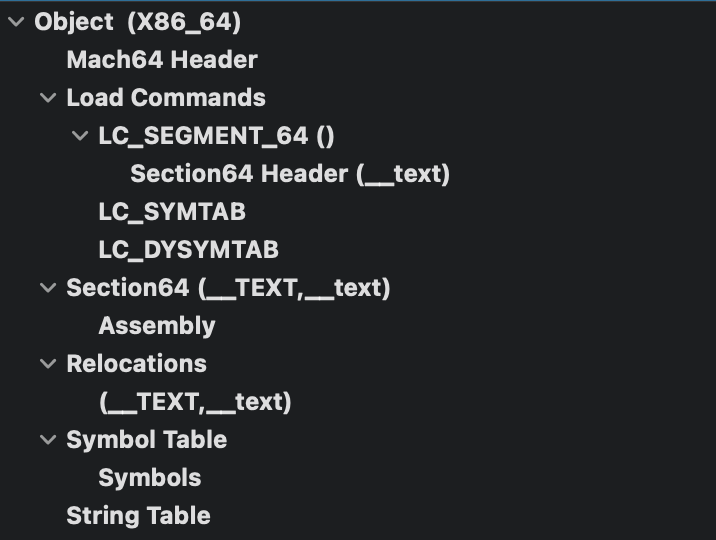
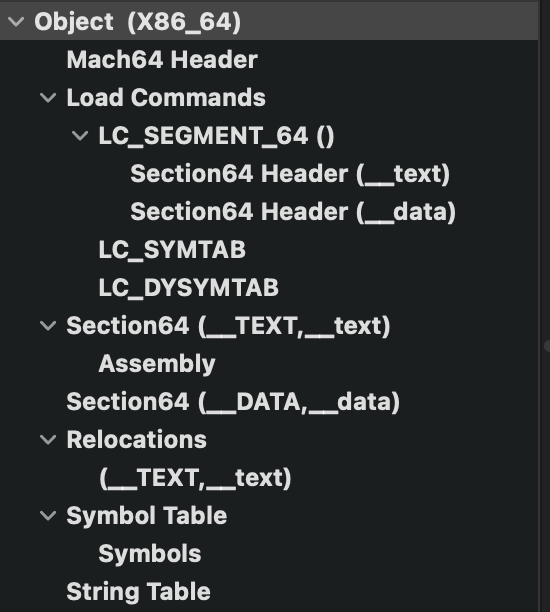
Data section

Changed region(s): [[0.0, 0.0, 1.0, 1.0], [0.7109, 0.2667, 0.8345, 0.2963]]

diff --git a/examples/printfObject.cpp b/examples/printfObject.cpp
@@ -14,22 +14,25 @@ int main() {
 
     unsigned char asmCode[] = {
             0x55, 0x48, 0x89, 0xE5,
-            0xE8, 0x00, 0x00, 0x00, 0x00,
-            0xE8, 0x00, 0x00, 0x00, 0x00,
+            0xE8, 0x00, 0x00, 0x00, 0x00, // call __Z8printTenv
+            0xE8, 0x00, 0x00, 0x00, 0x00, // call __Z8printTenv
+            0x8B, 0x05, 0x00, 0x00, 0x00, 0x00, // mov eax, dword ptr [rip + offset globalVar ]
             0x31, 0xC0, 0x5D,  0xC3
     };
 
     unsigned char data[] = {
-            0xDE, 0xD0
+            0xDE, 0xD3, 0x2D, 0xED, 0x32, 0xDE, 0xD3, 0x2D, 0xED, 0x32,
+            0xDE, 0xD3, 0x2D, 0xED, 0x32, 0xDE, 0xD3, 0x2D, 0xED, 0x32,
     };
 
     mgen.addCode(asmCode, sizeof(asmCode));
+    mgen.addData(data, sizeof(data));
+
     mgen.setMain(0);
     mgen.bind("__Z8printTenv", 0x5);
     mgen.bind("__Z8printTenv", 0xA);
-    mgen.bindVarData("globalVar", 0, 1);
+    mgen.bindVarData("globalVar", 0, 16);
 
-    mgen.addData(data, sizeof(data));
     mgen.dumpFile(binary);
 
     mgen.dest();

diff --git a/README.md b/README.md
@@ -114,28 +114,38 @@ binary.dest();
 There is an API for creating an object file that can be linked using ld / gcc / clang
 
 ```java
-FILE *res = fopen("machoObjectAuto.o", "wb");
-binaryFile binary = {};
-binary.init(res);
+  FILE *res = fopen("machoObjectAuto.o", "wb");
+    binaryFile binary = {};
+    binary.init(res);
 
-ObjectMachOGen mgen = {};
-mgen.init();
+    ObjectMachOGen mgen = {};
+    mgen.init();
 
-unsigned char asmCode[] = {
-        0x55, 0x48, 0x89, 0xE5, // some commands
-        0xE8, 0x00, 0x00, 0x00, 0x00, // call 0 <= 0x5 offset
-        0xE8, 0x00, 0x00, 0x00, 0x00, // call 0 <= 0xA offset
-        0x31, 0xC0, 0x5D,  0xC3 // some commands
-};
+    unsigned char asmCode[] = {
+            0x55, 0x48, 0x89, 0xE5,
+            0xE8, 0x00, 0x00, 0x00, 0x00, // call __Z8printTenv
+            0xE8, 0x00, 0x00, 0x00, 0x00, // call __Z8printTenv
+            0x8B, 0x05, 0x00, 0x00, 0x00, 0x00, // mov eax, dword ptr [rip + offset globalVar ]
+            0x31, 0xC0, 0x5D,  0xC3
+    };
 
-mgen.addCode(asmCode, sizeof(asmCode)); // set code
-mgen.setMain(0); // set main function offset
-mgen.bind("__Z8printTenv", 0x5); // 0x5 offset relocate to __Z8printTenv function
-mgen.bind("__Z8printTenv", 0xA); // 0xA offset relocate to __Z8printTenv function
-mgen.dumpFile(binary); // dump to file
+    unsigned char data[] = {
+            0xDE, 0xD3, 0x2D, 0xED, 0x32, 0xDE, 0xD3, 0x2D, 0xED, 0x32,
+            0xDE, 0xD3, 0x2D, 0xED, 0x32, 0xDE, 0xD3, 0x2D, 0xED, 0x32,
+    };
 
-mgen.dest();
-binary.dest();
+    mgen.addCode(asmCode, sizeof(asmCode));
+    mgen.addData(data, sizeof(data));
+
+    mgen.setMain(0);
+    mgen.bind("__Z8printTenv", 0x5);
+    mgen.bind("__Z8printTenv", 0xA);
+    mgen.bindVarData("globalVar", 0, 16);
+
+    mgen.dumpFile(binary);
+
+    mgen.dest();
+    binary.dest();
 ```
 
 It will create such structure:
